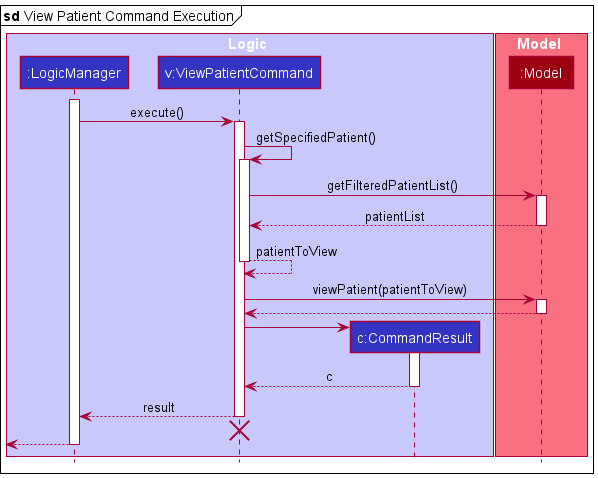
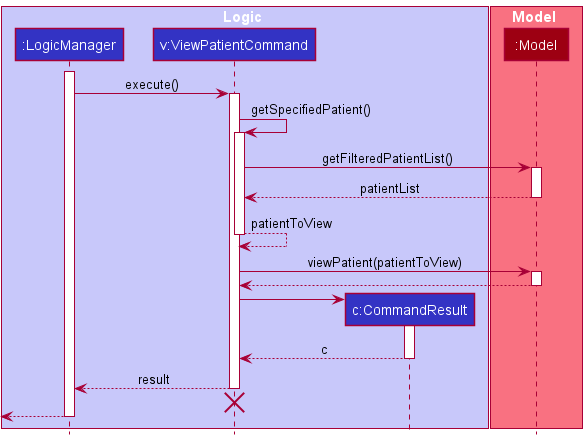
Add activity diagram

Changed region(s): [[0.0, 0.0, 1.0, 1.0]]

diff --git a/docs/DeveloperGuide.md b/docs/DeveloperGuide.md
@@ -365,10 +365,17 @@ This feature allows user to view patient's details as PatientTable does not show
 This feature can be accessed using the `view` command, which currently only support the viewing of patient which follows
 the following format `view t/patient PATIENT_ID` where `PATIENT_ID` is a valid id of a patient.
 
-Given below is the sequence diagram when a user provides an example of a valid `view` command
-(`view t/patient P001`) to see the complete details of the patient.
+Given below is an activity diagram showing the event flow when the user wants to view a patient's details:
 
-![ViewPatientCommandCreation](images/ViewPatientCreation.png)
+![ViewPatientActivityDiagram](images/ViewPatientActivityDiagram.png)
+
+Given below is the sequence diagram when a user provides an example of a valid `view` command (`view t/patient P001`) to
+see the details of patient with id P001.
+
+<div markdown="span" class="alert alert-info">:information_source:
+**Note:** The example below does not include the details of the creation of a `ViewPatientCommand` object, as the
+implementation is similar to that of the example covered in the `ReferralCommand` above.
+</div>
 
 After the `LogicManager` receives the new `ViewPatientCommand` object,
 1. The `ViewPatientCommand` would call the appropriate method from the `Model` to obtain the `Patient`'s specific details
@@ -695,6 +702,21 @@ entries corresponding to the user's input.
 **Extensions**
 
 * 2a. The list is empty.
+
+  Use case ends.
+
+**Use Case: [UC8] - Navigate to the past command**
+
+**MSS**
+
+1. User wants to get the previous command he typed.
+2. GoMedic shows the previous command the user typed.
+
+   Use case ends.
+
+**Extensions**
+
+* 2a. There is no previous command.
 
   Use case ends.
     
